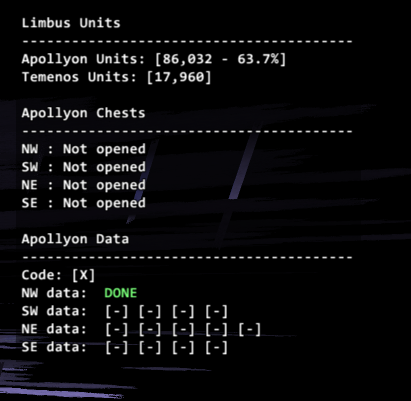
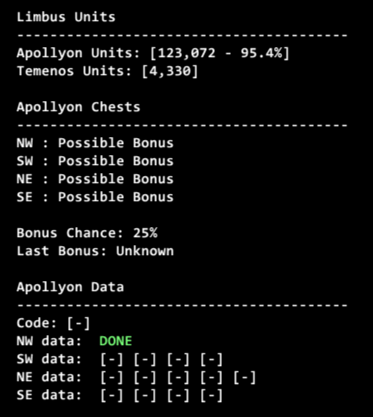
feat: update bonus reset logic and display percentage odds for a bonus. Version bumb to v0.3.4

Changed region(s): [[0.0, 0.2394, 0.9437, 1.0], [0.0295, 0.0299, 0.9437, 0.2095]]

diff --git a/README.MD b/README.MD
@@ -3,16 +3,14 @@
 ## What is Units?
 
 * Units is a addon that tracks your total Temenos/Apollyon Units and shows the diff percentage until you're cap. 
-
 * Automatically tracking your temp items for Code and floor data.
-
 * It will warn you when you're getting close so you're not losing out on Units when you open a chest.
-
 * It will warn you if you're nearing full inventory when you open a chest, that drops may be lost if you don't make room before leaving the area.
 
-* It will detect automatically if you found a normal or bonus chest - No need to track that anymore manually.
-
-* Resets tracking status on Chests on weekly reset.
+* Automatically detects Normal and Bonus chests.
+* Normal chests remain tracked until the Bonus is found.
+* Finding the Bonus starts a new rotation where all four chests are Possible Bonus again.
+* Shows the Bonus Chance for each Possible Bonus chest and remembers the Last Bonus location.
 
 ## Notice on Packets
 
@@ -24,7 +22,7 @@ This is the same packet the game client sends when you open the currency menu - 
 
 `//units show | hide` - Display | Hide the HUD
 
-`//units mini | full` - Toogle between mini and full HUD
+`//units mini | full` - Toggle between mini and full HUD
 
 
 ## Demo
